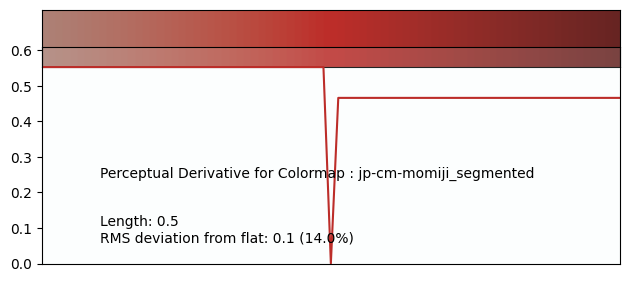
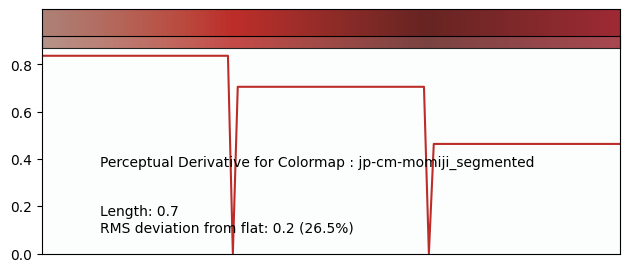
update readme

diff --git a/gen/maps.py b/gen/maps.py
@@ -72,8 +72,8 @@ cmaps = \
     # 'ete' : [],
     # 'automne' : [],
     # 'hiver' : [],
-    'water' : [mizu_iro,seiji_iro],
-    'momiji': [sakuranezumi,ginshu,azuki_iro],
+    'water' : [gunjo_iro,mizu_iro,seiji_iro],
+    'momiji': [sakuranezumi,ginshu,azuki_iro,enji_iro],
     'sky' : [kokushoku,kokimurasaki,sora_iro,aijiro],
     # inspired by cmasher (https://cmasher.readthedocs.io/)
     'sunburst' : [kokushoku,enji_iro,akabeni,tomorokoshi_iro,mashiro],
